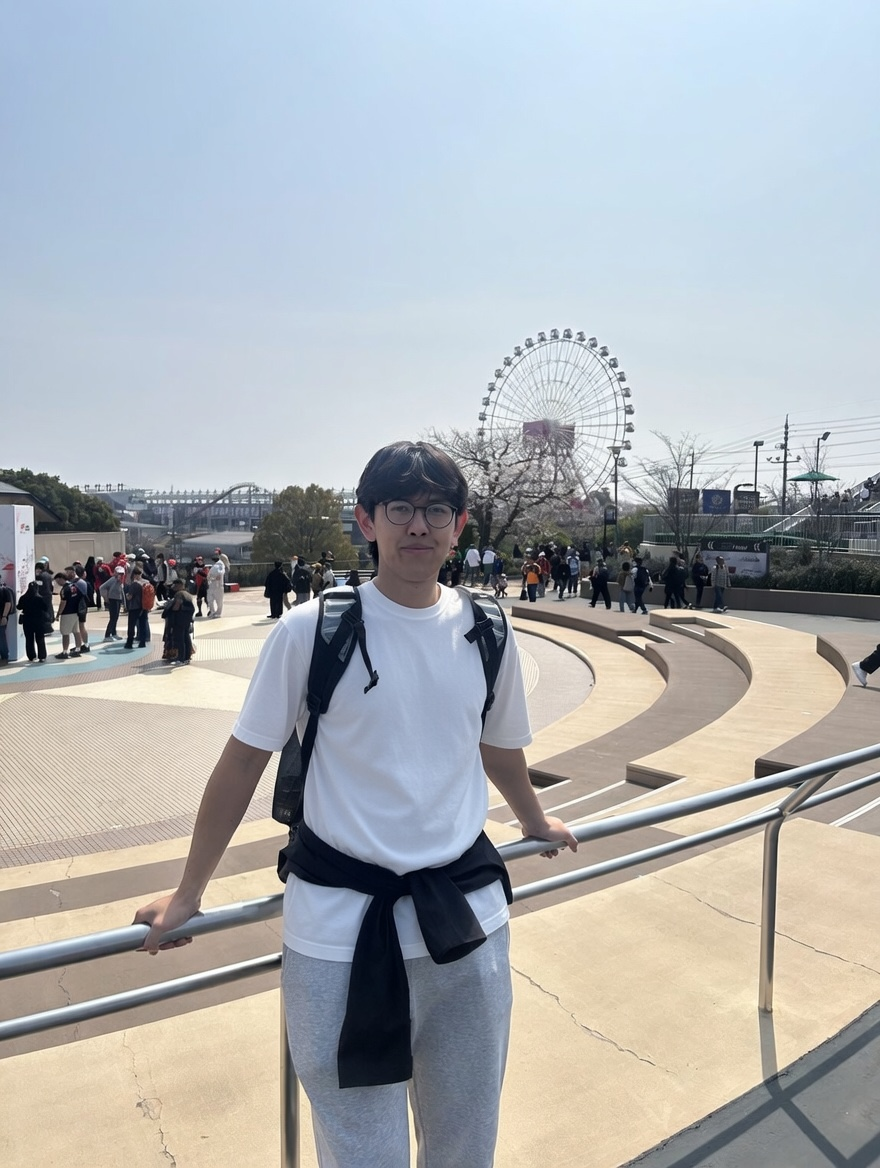
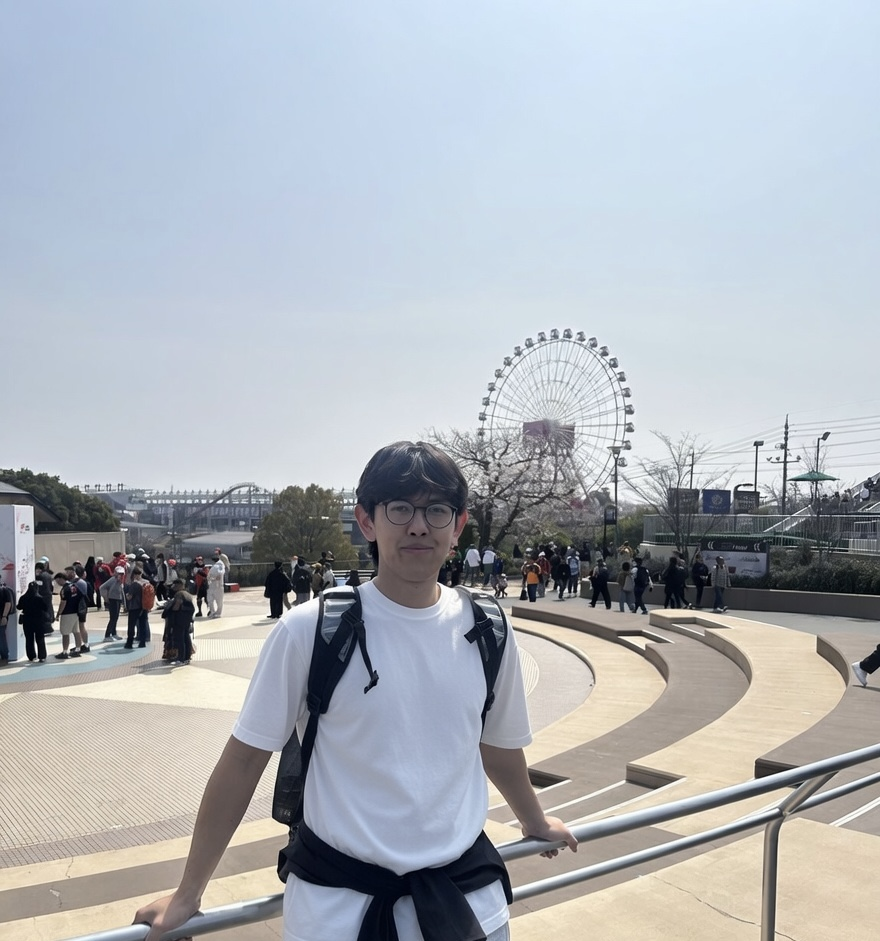
+pic

diff --git a/_pages/about.md b/_pages/about.md
@@ -9,8 +9,7 @@ profile:
   image: prof_pic.jpeg
   image_circular: false # crops the image to make it circular
   more_info: >
-    <p>Seoul, South Korea</p>
-    <p>AI Engineer at Rezi</p>
+    <p>At Suzuka, 2026</p>
 
 selected_papers: false # includes a list of papers marked as "selected={true}"
 social: true # includes social icons at the bottom of the page
